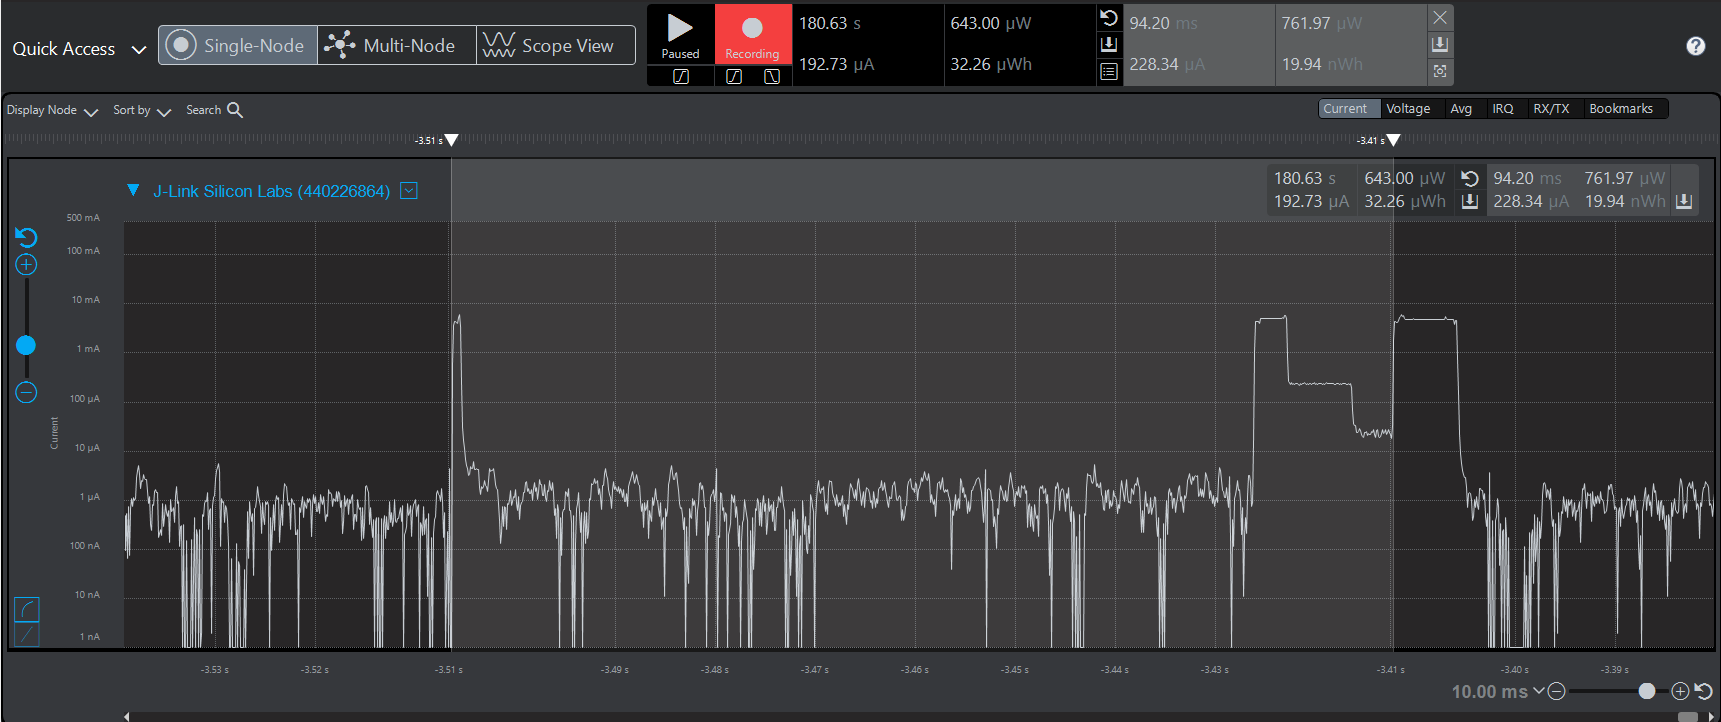
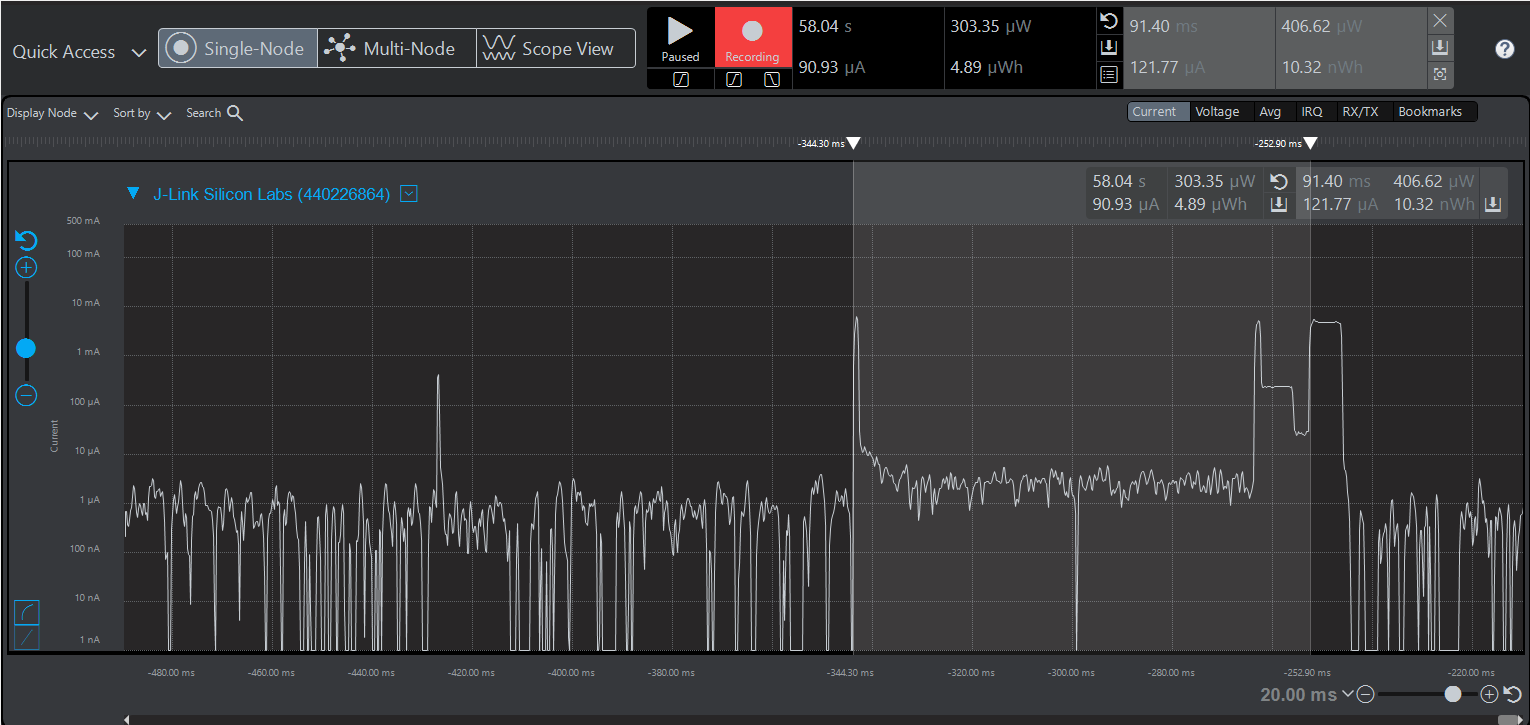
modified

diff --git a/src/scheduler.c b/src/scheduler.c
@@ -104,7 +104,6 @@ void Si7021_state_machine(uint32_t event)
       if (event == IRQ_WAIT_OVER) //non-blocking irq wait generates a COMP1 interrupt
         {
           sl_power_manager_add_em_requirement (SL_POWER_MANAGER_EM1); //add power requirement for EM1
-          i2c_init (); //initialize i2c
           send_I2C_command (); //write i2c command
           nextState = SensorWait;
         }
@@ -131,9 +130,9 @@ void Si7021_state_machine(uint32_t event)
       nextState = SensorOFF; // initial idle state
       if (event == I2C_COMPLETE) //if 3s UF interrupt
         {
+          gpioSi7021OFF (); //power on the sensor
           sl_power_manager_remove_em_requirement (SL_POWER_MANAGER_EM1); //Remove Power Req of EM1
           log_temperature (); //log the temperature
-          gpioSi7021OFF (); //power on the sensor
           nextState = Idle;
         }
       break;

diff --git a/app.c b/app.c
@@ -177,7 +177,7 @@ SL_WEAK void app_init(void)
   NVIC_ClearPendingIRQ (LETIMER0_IRQn);  //clear pendings
   NVIC_EnableIRQ (LETIMER0_IRQn); // config NVIC to take IRQs from LETIMER0
   initLETIMER0 (); //initialize the letimer0
-
+  i2c_init (); //initialize i2c
 } // app_init()
 
 
@@ -189,7 +189,7 @@ SL_WEAK void app_init(void)
  * comment out this function. Wait loops are a bad idea in general.
  * We'll discuss how to do this a better way in the next assignment.
  *****************************************************************************/
-static void delayApprox(int delay)
+/*static void delayApprox(int delay)
 {
   volatile int i;
 
@@ -198,7 +198,7 @@ static void delayApprox(int delay)
   }
 
 } // delayApprox()
-
+*/
 
 
 

diff --git a/src/i2c.c b/src/i2c.c
@@ -13,6 +13,7 @@
 #include"em_i2c.h"
 #include"stdint.h"
 #include"em_cmu.h"
+#include"scheduler.h"
 // Include logging specifically for this .c file
 #define INCLUDE_LOG_DEBUG 1
 #include "src/log.h"

diff --git a/src/log.c b/src/log.c
@@ -26,7 +26,7 @@
 // Include logging for this file
 #define INCLUDE_LOG_DEBUG 1
 #include "log.h"
-
+#include "irq.h"
 
 
 /**

diff --git a/questions/Assignment4-I2CLoadPowerManagementPart2.md b/questions/Assignment4-I2CLoadPowerManagementPart2.md
@@ -16,7 +16,7 @@ See [Mastering Markdown](https://guides.github.com/features/mastering-markdown/)
    ![Avg_current_LPM_Off](screenshots/assignment4/avg_current_lpm_off.png)  
 
 3. What is the ave current from the time we power-on the 7021 until we get the COMP1 IRQ indicating that the 7021's maximum time for conversion (measurement) has expired.
-   Answer:228.34uA
+   Answer:121.77uA
    <br>Screenshot:  
    ![Avg_current_LPM_On](screenshots/assignment4/avg_current_lpm_on.png)  
 
@@ -29,7 +29,7 @@ See [Mastering Markdown](https://guides.github.com/features/mastering-markdown/)
    Answer (in hours):
    Average current = 20.29uA = 0.02029mA
    Battery capacity = 1000mA per hour
-   operating time = battery capacity/average current =1000mAh/0.02029mA =49,285hrs
+   operating time = battery capacity/average current =1000mAh/0.02029mA =49,285 hours
    
 6. How has the power consumption performance of your design changed since the previous assignment?
    Answer:
@@ -38,9 +38,12 @@ See [Mastering Markdown](https://guides.github.com/features/mastering-markdown/)
  |--------------------------------------------------------------------------------------------------|
  | Per period                    |         155.17uA             |            20.29uA                |
  | During sleep until power-on   |         7.59uA               |            2.94uA                 |
- |From power-on till wait expires|         4.87mA               |            228.34uA               |
+ |From power-on till wait expires|         4.87mA               |            121.77uA               |
  |operating time for 1000mAh Bt  |         6,445hrs             |            49,285hrs              |
  |--------------------------------------------------------------------------------------------------|                                                              
-   From the above table, it is evident that the power consumption when using  non-blocking calls(interrupt based waits and i2c transfers) in assignment-4 is less compared to the blocking calls(polling based waits and i2c transfers) in assignmnet-3. Performing the I2C transfers  and sleeping in EM1 ; adn also slpeeping in EM3 during the wait periods has effectiveky influenced the power consumption. The operating time for the 1000mAh battery capacity is more for the average current in measured with non-blocking calls.
+   From the above table, it is evident that the average currents is less in assignment-4 than in the previous assignment.
+   Thus the power consumption when using  non-blocking calls(interrupt based waits and i2c transfers) in assignment-4 is less compared to the blocking calls(polling based waits and i2c transfers) in assignmnet-3. 
+   Performing the I2C transfers  and sleeping in EM1 ; and also sleeping in EM3 during the wait periods has effectively influenced the power consumption. 
+   The operating time for the 1000mAh battery capacity is more when the average current is measured with non-blocking calls.
 
 
